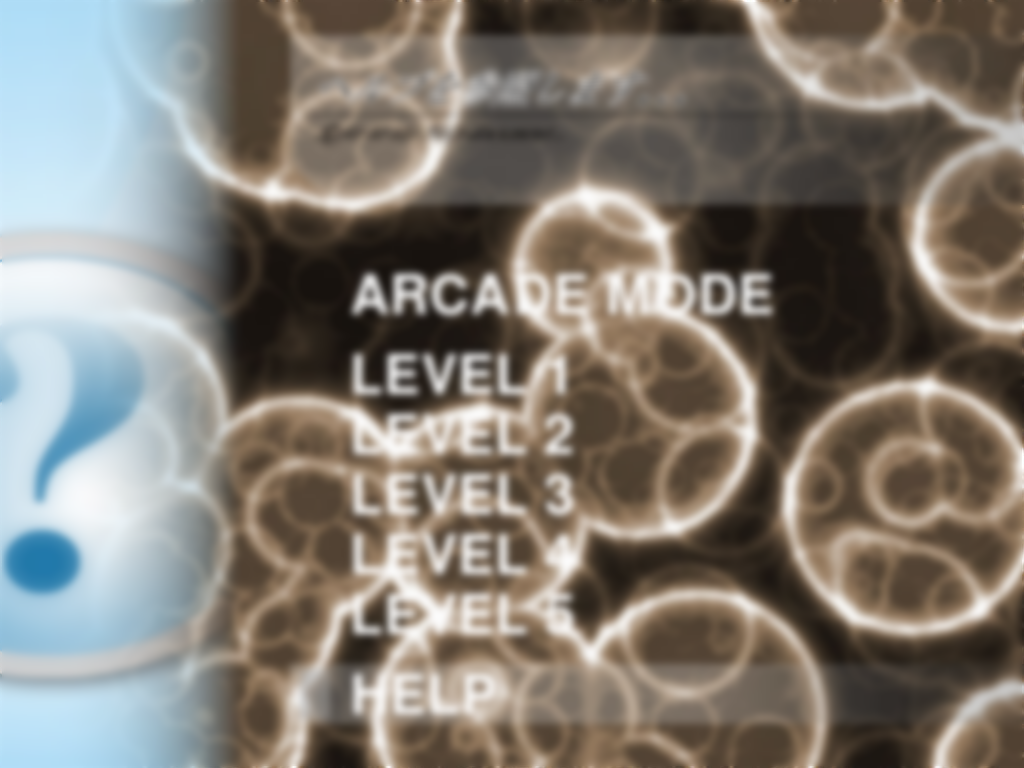
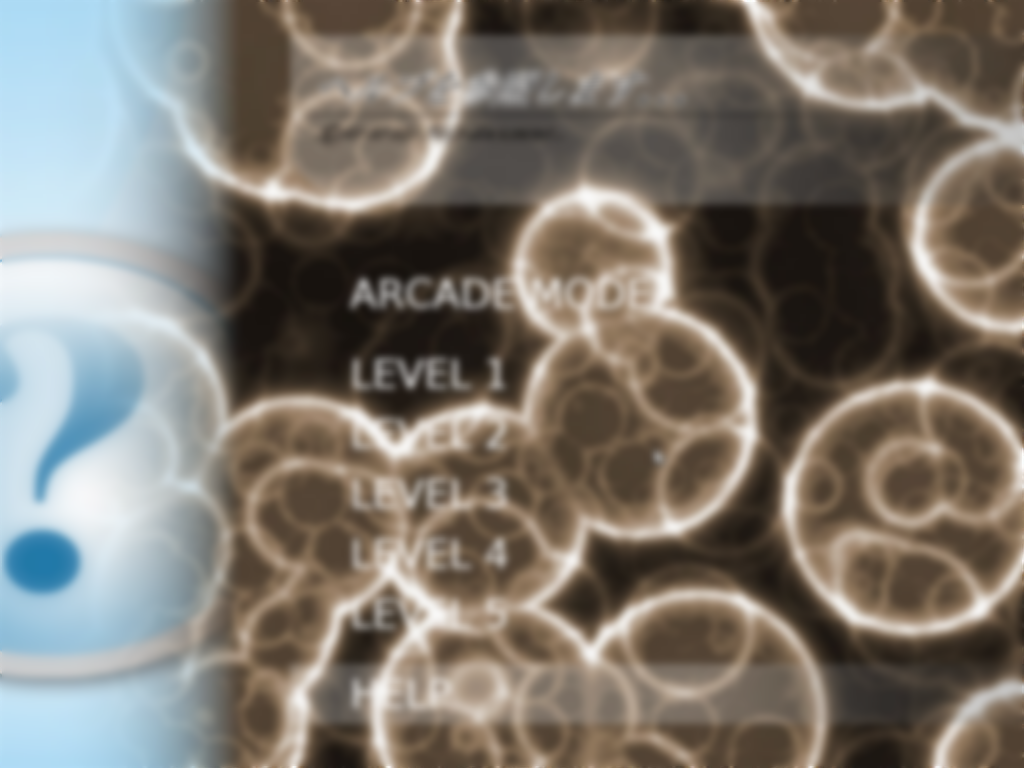
FINAL

Changed region(s): [[0.3438, 0.3438, 0.7812, 0.8438], [0.2812, 0.875, 0.5, 0.9375]]

diff --git a/lib/objects/gameover.py b/lib/objects/gameover.py
@@ -6,6 +6,7 @@ from pygame.locals import *
 
 from lib.constants  import *
 from base           import *
+from gloss          import Texture
 
 #########################################################################################
 #                     GAMEOVER ANIMATION                                                #
@@ -14,7 +15,7 @@ from base           import *
 
 class GameoverDraw():
 
-    def __init__(self, gamedata):  # FIXME win or lose
+    def __init__(self, gamedata):
         # Sprite Group
         self.gameover_all = BaseGroup()
 
@@ -24,12 +25,13 @@ class GameoverDraw():
         PushSpaceGameover.containers        = self.gameover_all
 
         # Objects
-        self.bg_gameover = BackgroundGameover(gamedata.result==gamedata.WIN, gamedata.lastscreen)
-        self.pushspace = PushSpaceGameover()
-        if gamedata.result == gamedata.WIN:
-            self.score = ScoreGameover(gamedata.get_score())
-
-        self.gamedata = gamedata
+        if gamedata.win():
+            self.bg_gameover = BackgroundGameover(True)
+            self.score = ScoreGameover(gamedata.getscore())
+            self.pushspace = PushSpaceGameover()
+        else:
+            self.bg_gameover = BackgroundGameover(False)
+            self.pushspace = PushSpaceGameover()
 
     def update(self):
         self.gameover_all.update()
@@ -41,44 +43,44 @@ class GameoverDraw():
 class BackgroundGameover(BaseSprite):
     """Background fades in when a player loses"""
 
-    opaque = 255
-    speed = -10
+    opaque = 1.0
+    speed = -0.04
 
-    def __init__(self, win, lastscreen):
+    def __init__(self, win):
+        if win:
+            self.orig_texture= self.wintexture
+        else:
+            self.orig_texture = self.losetexture
+        self.texture = self.orig_texture
         BaseSprite.__init__(self)
 
-        if win:
-            self.image = self.winimage
-        else:
-            self.image = self.loseimage
+        self.rect.topleft = (0, 0)
 
-        self.original_image = self.image.copy()
-        self.rect = self.image.get_rect()
-        self.rect.x = 0
-        self.rect.y = 0
-
-        self.lastgame_image = lastscreen
+        from OpenGL.GL import *
+        OpenGL.ERROR_CHECKING = False
+        from OpenGL.GL.EXT.framebuffer_object import *
+        from OpenGL.GLU import *
+        # キャプチャ
+        glReadBuffer(GL_FRONT)
+        glPixelStorei(GL_UNPACK_ALIGNMENT, 1)
+        data = glReadPixels(0, 0, 1024, 768, GL_RGBA, GL_UNSIGNED_BYTE)
+        # 画像を保存
+        self.game_capture = Texture(pygame.image.fromstring(data, (1024,768), "RGBA", True))
 
     def update(self):
-        if self.opaque > 0:
+        self.opaque = max(self.opaque + self.speed, 0)
 
-            self.im1 = self.original_image.copy()
-            self.im2 = self.lastgame_image.copy()
-
-            self.im1.set_alpha(255-self.opaque)
-            self.im2.set_alpha(self.opaque)
-
-            self.image = pygame.Surface(SCR_RECT.size)
-            self.image.convert_alpha()
-            self.image.blit(self.im1, (0,0))
-            self.image.blit(self.im2, (0,0))
-
-            self.opaque += self.speed
-        else:
-            self.image = self.original_image
+    def draw(self):
+        self.texture = self.game_capture
+        self.opaque = self.opaque
+        BaseSprite.draw(self)
+        self.texture = self.orig_texture
+        self.opaque = 1 - self.opaque
+        BaseSprite.draw(self)
+        self.opaque = 1 - self.opaque
 
 
-class ScoreGameover(BaseSprite):
+class ScoreGameover(BaseSpriteFont):
 
     y = 300
     text = 'SCORE: {0}'
@@ -86,8 +88,8 @@ class ScoreGameover(BaseSprite):
     fontsize = 30
 
     def __init__(self, score):
-        text = text.format(score)
-        BaseSprite.__init__(self)
+        self.text = self.text.format(score)
+        BaseSpriteFont.__init__(self)
         self.opaque = 0.04
         self.speed = 0.008
 
@@ -103,12 +105,12 @@ class ScoreGameover(BaseSprite):
 class PushSpaceGameover(BasePushSpaceSprite):
 
     y = 600
-    color = (128, 128, 128)
+    color = (0.5, 0.5, 0.5)
     wait = 60
 
     def __init__(self):
         BasePushSpaceSprite.__init__(self)
-        self.opaque = 0
-        self.speed = 3
+        self.opaque = 0.0
+        self.speed = 0.1
 
 

diff --git a/Guerrilla.py b/Guerrilla.py
@@ -13,7 +13,8 @@ from lib.gamedata   import GameData
 
 from gloss          import GlossGame, Gloss, Texture
 
-#gloss.enable_multisampling = True #TODO
+#Gloss.enable_multisampling = True #TODO
+#Gloss.running_slowly=True
 os.environ['SDL_VIDEO_CENTERED'] = '1'
 os.environ['SDL_AUDIODRIVER'] = 'esd'
 
@@ -61,6 +62,10 @@ class Guerrilla(GlossGame):
         BackgroundHelp.textures           = [load_image("help-background"+str(x)+".png") for x in range(10)]
         ContentsHelp.texture              = load_image('help-contents.png')
 
+        # Sorry
+        BackgroundSorry.textures           = [load_image("sorry-background"+str(x)+".png") for x in range(10)]
+        ContentsSorry.texture               = load_image("sorry-contents.png")
+
         # Load background
         BackgroundSelect.texture          = load_image("select.jpg")
         BackgroundPlay.textures           = load_image("play.jpg", 5)
@@ -88,7 +93,7 @@ class Guerrilla(GlossGame):
     def update(self):
         """Update state of a game"""
 
-        print Gloss.elapsed_seconds #TODO
+#        print Gloss.elapsed_seconds #TODO
 
         if self.game_state == SELECT:
             self.selectdraw.update()
@@ -96,7 +101,6 @@ class Guerrilla(GlossGame):
         elif self.game_state == PLAY:
             self.playdraw.update()
             if self.playdraw.hasfinished():
-                self.gamedata.lastscreen = self._screen.copy()
                 self.gameoverdraw = GameoverDraw(self.gamedata)
                 self.game_state = GAMEOVER
 
@@ -104,9 +108,13 @@ class Guerrilla(GlossGame):
             self.gameoverdraw.update()
 
         elif self.game_state == HELP:
-            #self.selectdraw.update()  #TODO
             self.helpdraw.update()
             if self.helpdraw.hasclosed():
+                self.game_state = SELECT
+
+        elif self.game_state == SORRY:
+            self.sorrydraw.update()
+            if self.sorrydraw.hasclosed():
                 self.game_state = SELECT
 
 
@@ -127,6 +135,9 @@ class Guerrilla(GlossGame):
         elif self.game_state == HELP:
             drawer = self.helpdraw
 
+        elif self.game_state == SORRY:
+            drawer = self.sorrydraw
+
         drawer.draw()
 
 
@@ -141,7 +152,8 @@ class Guerrilla(GlossGame):
             if self.game_state == SELECT:
                 index = self.selectdraw.get_index()
                 if index == 0:
-                    print 'ARCADE MODE is selected'  #TODO
+                    self.sorrydraw = SorryDraw()
+                    self.game_state = SORRY
                 elif index in range(1, 6):
                     self.gamedata.initlevel(index)
                     self.playdraw = PlayDraw(self.gamedata)
@@ -157,6 +169,9 @@ class Guerrilla(GlossGame):
                 if not self.helpdraw.whileclosing():
                     self.helpdraw.close()
 
+            elif self.game_state == SORRY:
+                if not self.sorrydraw.whileclosing():
+                    self.sorrydraw.close()
 
 
 game = Guerrilla("Guerrilla Live(!)")

diff --git a/lib/gamedata.py b/lib/gamedata.py
@@ -13,7 +13,7 @@ class GameData(object):
     killed = 0
     bosslimit = sys.maxint
     
-    gage_limit = 300 #FIXME FIXME
+    gage_limit = 300
 
     def __init__(self):
         pass
@@ -32,52 +32,56 @@ class GameData(object):
 
         if level == 1:
             self.killed = 0
-            self.bosslimit = 500
+            self.bosslimit = 250
             self.enemies = [
-                (EColi, 0.15, 0.05)
+                (EColi, 0.075, 0.02)
             ]
             self.boss = BigEColi
 
         elif level == 2:
+            self.killed = 0
+            self.bosslimit = 350
+            self.enemies = [
+                (EColi, 0.15, 0.04)
+            ]
+            self.boss = BigEColi
+
+        elif level == 3:
+            self.killed = 0
+            self.bosslimit = 400
+            self.enemies = [
+                (EColi, 0.10, 0.05),
+                (EColi2, 0.02, 0.005)
+            ]
+            self.boss = BigEColi
+
+        elif level == 4:
+            self.killed = 0
+            self.bosslimit = 500
+            self.enemies = [
+                (EColi, 0.15, 0.075)
+            ]
+            self.boss = BigEColi
+
+        elif level == 5:
             self.killed = 0
             self.bosslimit = 800
             self.enemies = [
                 (EColi, 0.075, 0.03),
                 (EColi2, 0.05, 0.01)
             ]
-            self.boss = BigEColi #FIXME
+            self.boss = BigEColi
 
-        elif level == 3:
-            self.killed = 0
-            self.bosslimit = 30
-            self.enemies = [
-                (EColi, 0.10, 0.05)
-            ]
-            self.boss = BigEColi #FIXME
 
-        elif level == 4:
-            self.killed = 0
-            self.bosslimit = 30
-            self.enemies = [
-                (EColi, 0.10, 0.05)
-            ]
-            self.boss = BigEColi #FIXME
-
-        elif level == 5:
-            self.killed = 0
-            self.bosslimit = 30
-            self.enemies = [
-                (EColi, 0.10, 0.05)
-            ]
-            self.boss = BigEColi #FIXME
-
+    def win(self):
+        return self.result == self.WIN
 
     def killed_enemies(self, amount):
         self.killed += amount
         if self.weapon_mode == self.SHOT:
             self.subweapon_counter = min(self.subweapon_counter+amount, self.gage_limit)
 
-    def get_score(self):    #FIXME
+    def getscore(self):    #FIXME
         return self.killed*10
 
     def is_bosslimit_broken(self):  #FIXME

diff --git a/lib/objects/play.py b/lib/objects/play.py
@@ -12,7 +12,6 @@ from collections    import deque
 
 from lib.constants  import *
 from base           import *
-
 from gloss          import *
 
 #########################################################################################
@@ -264,7 +263,7 @@ class PlayDraw():
                 recycle_or_gen_object(Explosion, shots[0].rect.center) # Draw explosion
 
         """ Between player and E.Colis """
-        player_collided = spritecollide(self.player, self.enemies, True)
+        player_collided = spritecollide(self.player, self.enemies, False)
         if player_collided:
             if not self.player.killed_once(): # die once
                 self.gamedata.result = self.gamedata.LOSE
@@ -390,6 +389,7 @@ class Player(BaseSprite):
                     self.opaque = 1.0
             elif self.invincible == 0:
                 self.invincible -= 1
+                self.opaque = 1.0
 
             # Accel player
             pressed_keys = pygame.key.get_pressed()
@@ -538,7 +538,7 @@ class Bomb(BaseSprite):
 
     def __init__(self):
         self.base_img = pygame.Surface(SCR_RECT.size, SRCALPHA|HWSURFACE)
-        self.image = Texture(self.base_img)
+        self.texture = Texture(self.base_img)
         BaseSprite.__init__(self)
 
         self.start = player_pos

diff --git a/misc/blur.py b/misc/blur.py
@@ -1,8 +1,8 @@
 import ImageFilter, Image
 
-SS = '../../tmp/help-ss-tmp.png'
+SS = '../../tmp/tmp.png'
 im = Image.open(SS)
 
 for i in range(10):
     im = im.filter( ImageFilter.BLUR )
-    im.save('../../tmp/help-background'+str(i)+'.png')
+    im.save('../../tmp/sorry-background'+str(i)+'.png')

diff --git a/lib/constants.py b/lib/constants.py
@@ -3,7 +3,7 @@
 
 from pygame.locals import *
 
-START, PLAY, GAMEOVER, SELECT, HELP, CREDIT = range(6)  # states of a game
+START, PLAY, GAMEOVER, SELECT, HELP, SORRY, CREDIT = range(7)  # states of a game
 WIDTH = 1024
 HEIGHT = 768
 SCR_RECT = Rect(0, 0, WIDTH, HEIGHT)

diff --git a/lib/objects/select.py b/lib/objects/select.py
@@ -59,7 +59,7 @@ class SelectDraw():
         self.level5 = LevelSelect(5)
         self.help = HelpSelect()
 
-        self.ef_select = EffectSelect()
+        #self.ef_select = EffectSelect()
 
 
     def update(self):

diff --git a/lib/objects/help.py b/lib/objects/help.py
@@ -180,6 +180,7 @@ class ContentsHelp(BaseSprite):
         if self.visible:
             BaseSprite.draw(self)
 
+
 class PushSpaceHelp(BasePushSpaceSprite):
 
     y = 690

diff --git a/lib/objects/__init__.py b/lib/objects/__init__.py
@@ -5,4 +5,5 @@ from help import *
 from select import *
 from play import *
 from gameover import *
+from sorry import *
 
